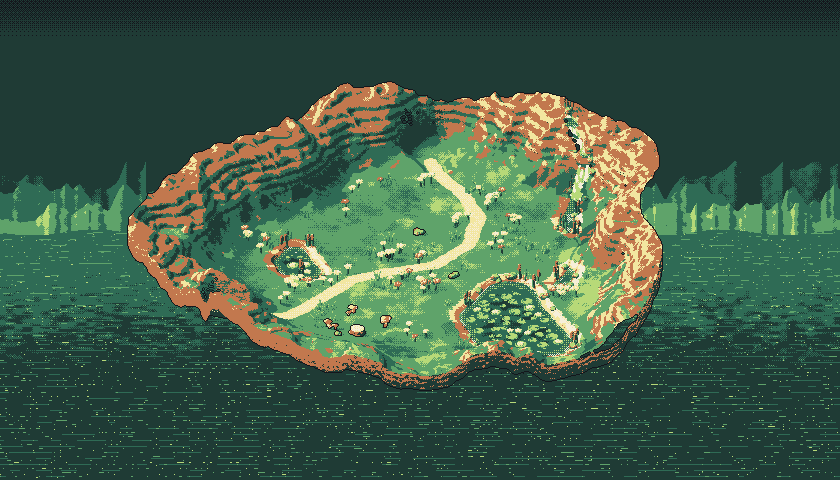
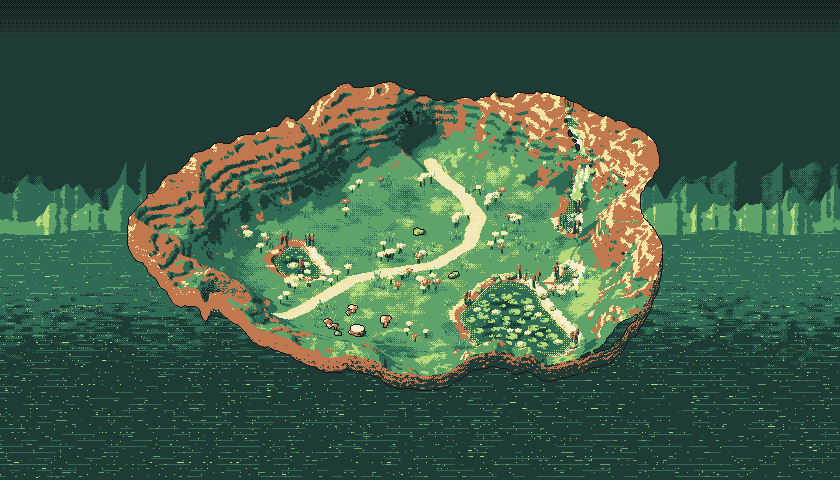
Meadow cliffs: tame lit faces further, more moss
Claude-Session: https://claude.ai/code/session_01Pmx9dWehhiLxtQkJsSWE9f

diff --git a/tools/art/gen_meadow3d.py b/tools/art/gen_meadow3d.py
@@ -457,7 +457,7 @@ mat = np.full(len(FU), T_GRASS, np.int16)
 rockness = smooth(.42, .85, slope + np.clip(h - 10, 0, 50) / 50 + (n1 - .5) * .25)
 mat[rockness > .5] = T_ROCK
 # moss: low and mid rock wears green so the mountain reads as a hillside, bare earth only on high ridges and steep faces
-moss_ = (mat == T_ROCK) & (h < 30) & (slope < 1.7) & (fbm2(FU / 9, FV / 9, 3, 12) + .22 * (1 - h / 30) > .52)
+moss_ = (mat == T_ROCK) & (h < 36) & (slope < 1.9) & (fbm2(FU / 9, FV / 9, 3, 12) + .22 * (1 - h / 36) > .5)
 mat[moss_] = T_MOSS
 mat[(h > 54) & (slope < 2.6) & (n2 > .3) & (rockness > .3)] = T_FROST
 dwt = samp(DW, FU, FV) + (n2 - .5) * 2.2
@@ -514,7 +514,7 @@ for c0 in range(0, len(u_), 1500000):
     shadow[sl_] = s_
 shadow[len(T['u']):len(T['u']) + len(Wd['u'])] = False
 log('shadows done')
-RAMP = {T_GRASS: [1, 2, 3, 3, 4], T_ROCK: [1, 2, 2, 6, 6, 6, 5], T_MOSS: [1, 2, 2, 3, 3], T_SAND: [6, 6, 5, 7], T_WET: [1, 6, 6, 5], T_PATH: [6, 5, 5, 7], T_FROST: [6, 5, 7, 7], T_EARTH: [1, 6, 6, 5],
+RAMP = {T_GRASS: [1, 2, 3, 3, 4], T_ROCK: [1, 2, 2, 6, 6, 6, 6, 6, 5], T_MOSS: [1, 2, 2, 3, 3], T_SAND: [6, 6, 5, 7], T_WET: [1, 6, 6, 5], T_PATH: [6, 5, 5, 7], T_FROST: [6, 5, 7, 7], T_EARTH: [1, 6, 6, 5],
         M_FOL: [1, 2, 3, 4], M_BARK: [1, 6, 6, 5], M_PINE: [1, 2, 2, 3], M_ROCK: [1, 2, 6, 5], M_MOSS: [2, 3, 4, 4], M_CRYS: [2, 3, 4, 7], M_WOOD: [1, 6, 5, 7],
         M_PETA: [3, 5, 5, 7], M_PETB: [2, 6, 6, 5], M_STEM: [1, 2, 3, 3], M_LILY: [1, 2, 3, 4], M_REED: [1, 2, 3, 3], M_CAT: [1, 6, 6, 5], M_BERRY: [1, 6, 6, 5],
         M_CAP: [1, 6, 6, 5], M_CSTEM: [6, 5, 7, 7], M_PAPER: [5, 7, 7, 7], M_GRASS: [2, 3, 3, 4], M_BARKT: [6, 5, 7, 7], M_BARKT2: [1, 6, 5, 7], M_INK: [0, 0, 1, 1], M_PAPER + 20: [5, 7, 7, 7]}
